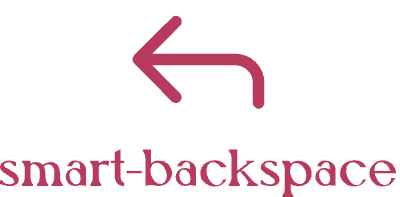
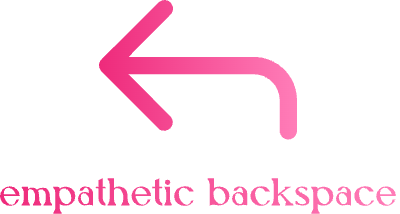
chore: update

Changed region(s): [[0.0, 0.731, 0.99, 1.0], [0.24, 0.0, 0.75, 0.6701]]

diff --git a/README.md b/README.md
@@ -1,5 +1,5 @@
 <p align="center">
-<img height="200" src="./assets/kv.png" alt="smart-backspace">
+<img height="200" src="./assets/kv.png" alt="empathetic-backspace">
 </p>
 <p align="center"> English | <a href="./README_zh.md">简体中文</a></p>
 

diff --git a/README_zh.md b/README_zh.md
@@ -1,5 +1,5 @@
 <p align="center">
-<img height="200" src="./assets/kv.png" alt="smart-backspace">
+<img height="200" src="./assets/kv.png" alt="empathetic-backspace">
 </p>
 <p align="center"> <a href="./README.md">English</a> | 简体中文</p>
 
